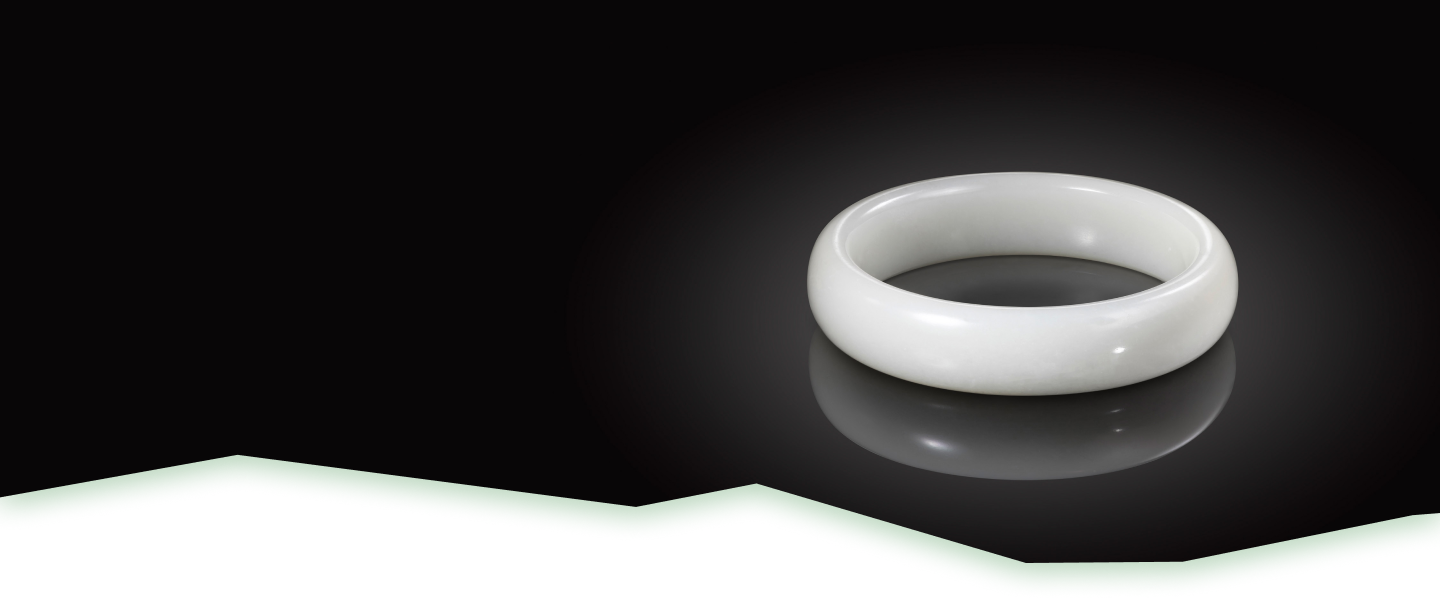
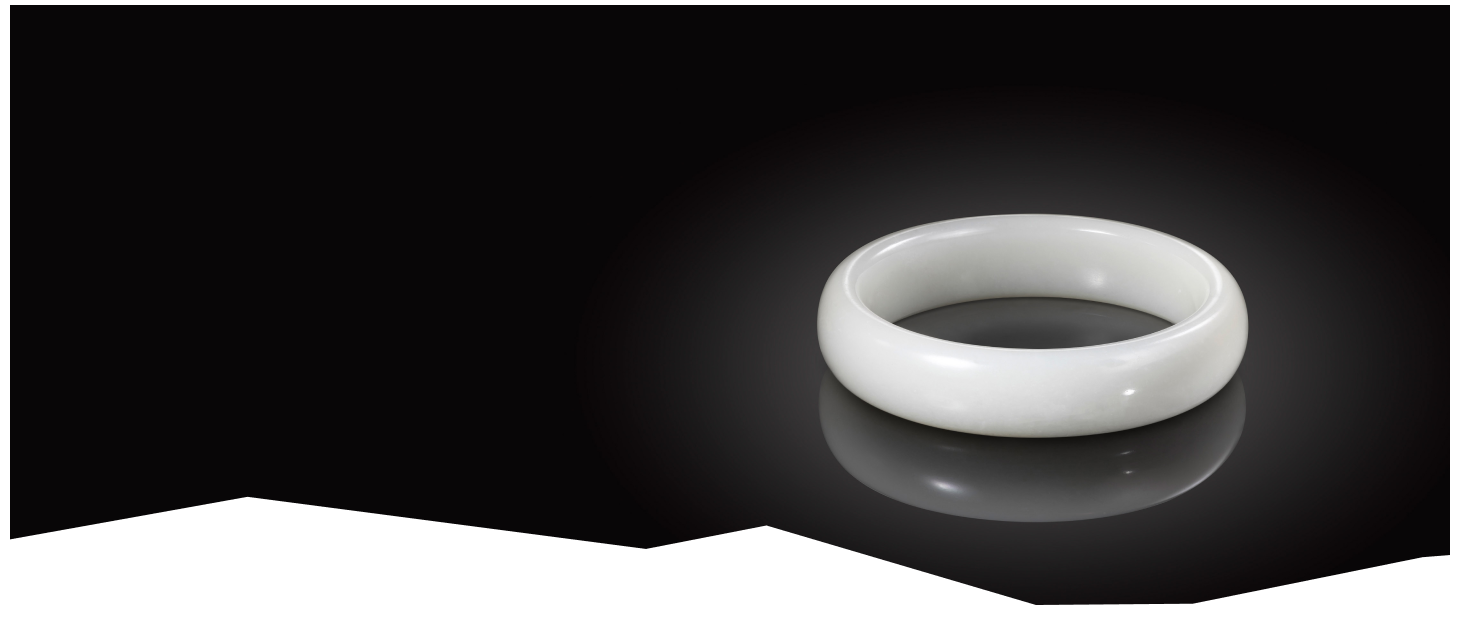
slider

Changed region(s): [[0.5625, 0.27, 0.875, 0.84], [0.0, 0.0, 1.0, 0.99]]

diff --git a/styles.css b/styles.css
@@ -183,14 +183,14 @@ main{
 		    position: relative;
 		}
 		.slide-2{
-		    background-image: url(items/slide-2.png);
+		    background-image: url(items/slide-2a.png);
 		    margin-top: -170px;
 		    width: 735px;
 		    height: 500px;
 		    float: left;
 		}
 		.slide-3{
-		    background-image: url(items/slide-3.png);
+		    background-image: url(items/slide-3a.png);
 		    width: 770px;
 		    height: 500px;
 		    top: -140px;
